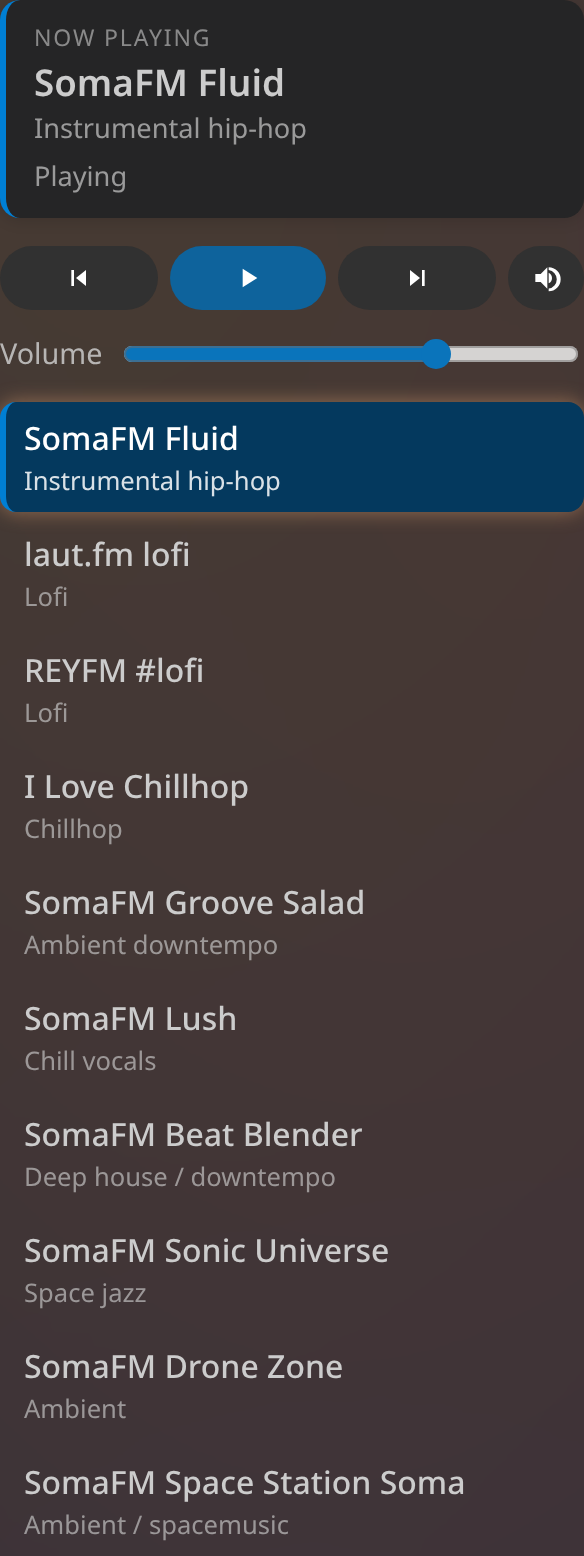
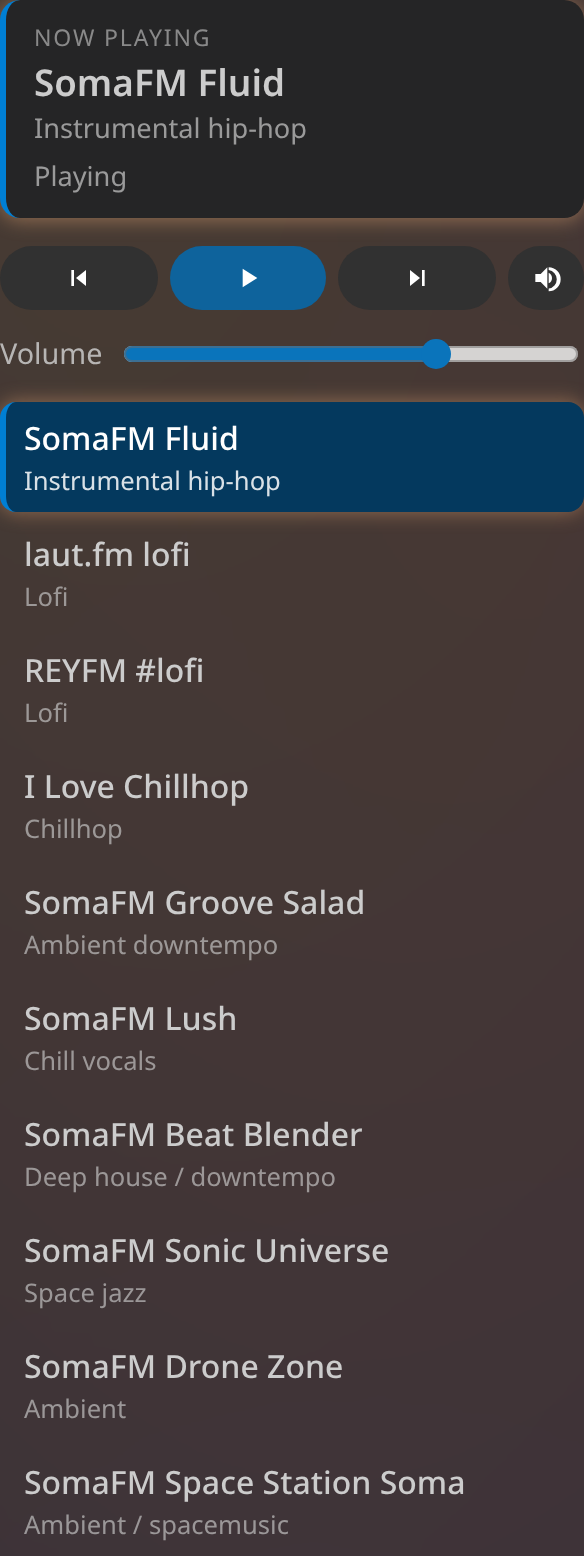
fix: use theme-neutral warm glow for now-playing card shadow
Replaces the hardcoded rgba(0,0,0,0.14) halo (faint dark on light themes) with
the --lofi-glow accent so the card reads well on both light and dark themes.
Regenerated screenshot.

Changed region(s): [[0.0, 0.1234, 1.0, 0.1542]]

diff --git a/media/player.css b/media/player.css
@@ -72,7 +72,9 @@ body::before {
   /* Slightly translucent theme surface so the scene glows softly behind it
      while text still reads against a theme-derived background. */
   background: var(--vscode-editorWidget-background, var(--vscode-sideBar-background));
-  box-shadow: 0 1px 8px rgba(0, 0, 0, 0.14);
+  /* Theme-neutral soft glow (warm accent) rather than a fixed dark halo, so it
+     reads well on both light and dark themes. */
+  box-shadow: 0 1px 10px var(--lofi-glow);
 }
 .now-label {
   text-transform: uppercase;
